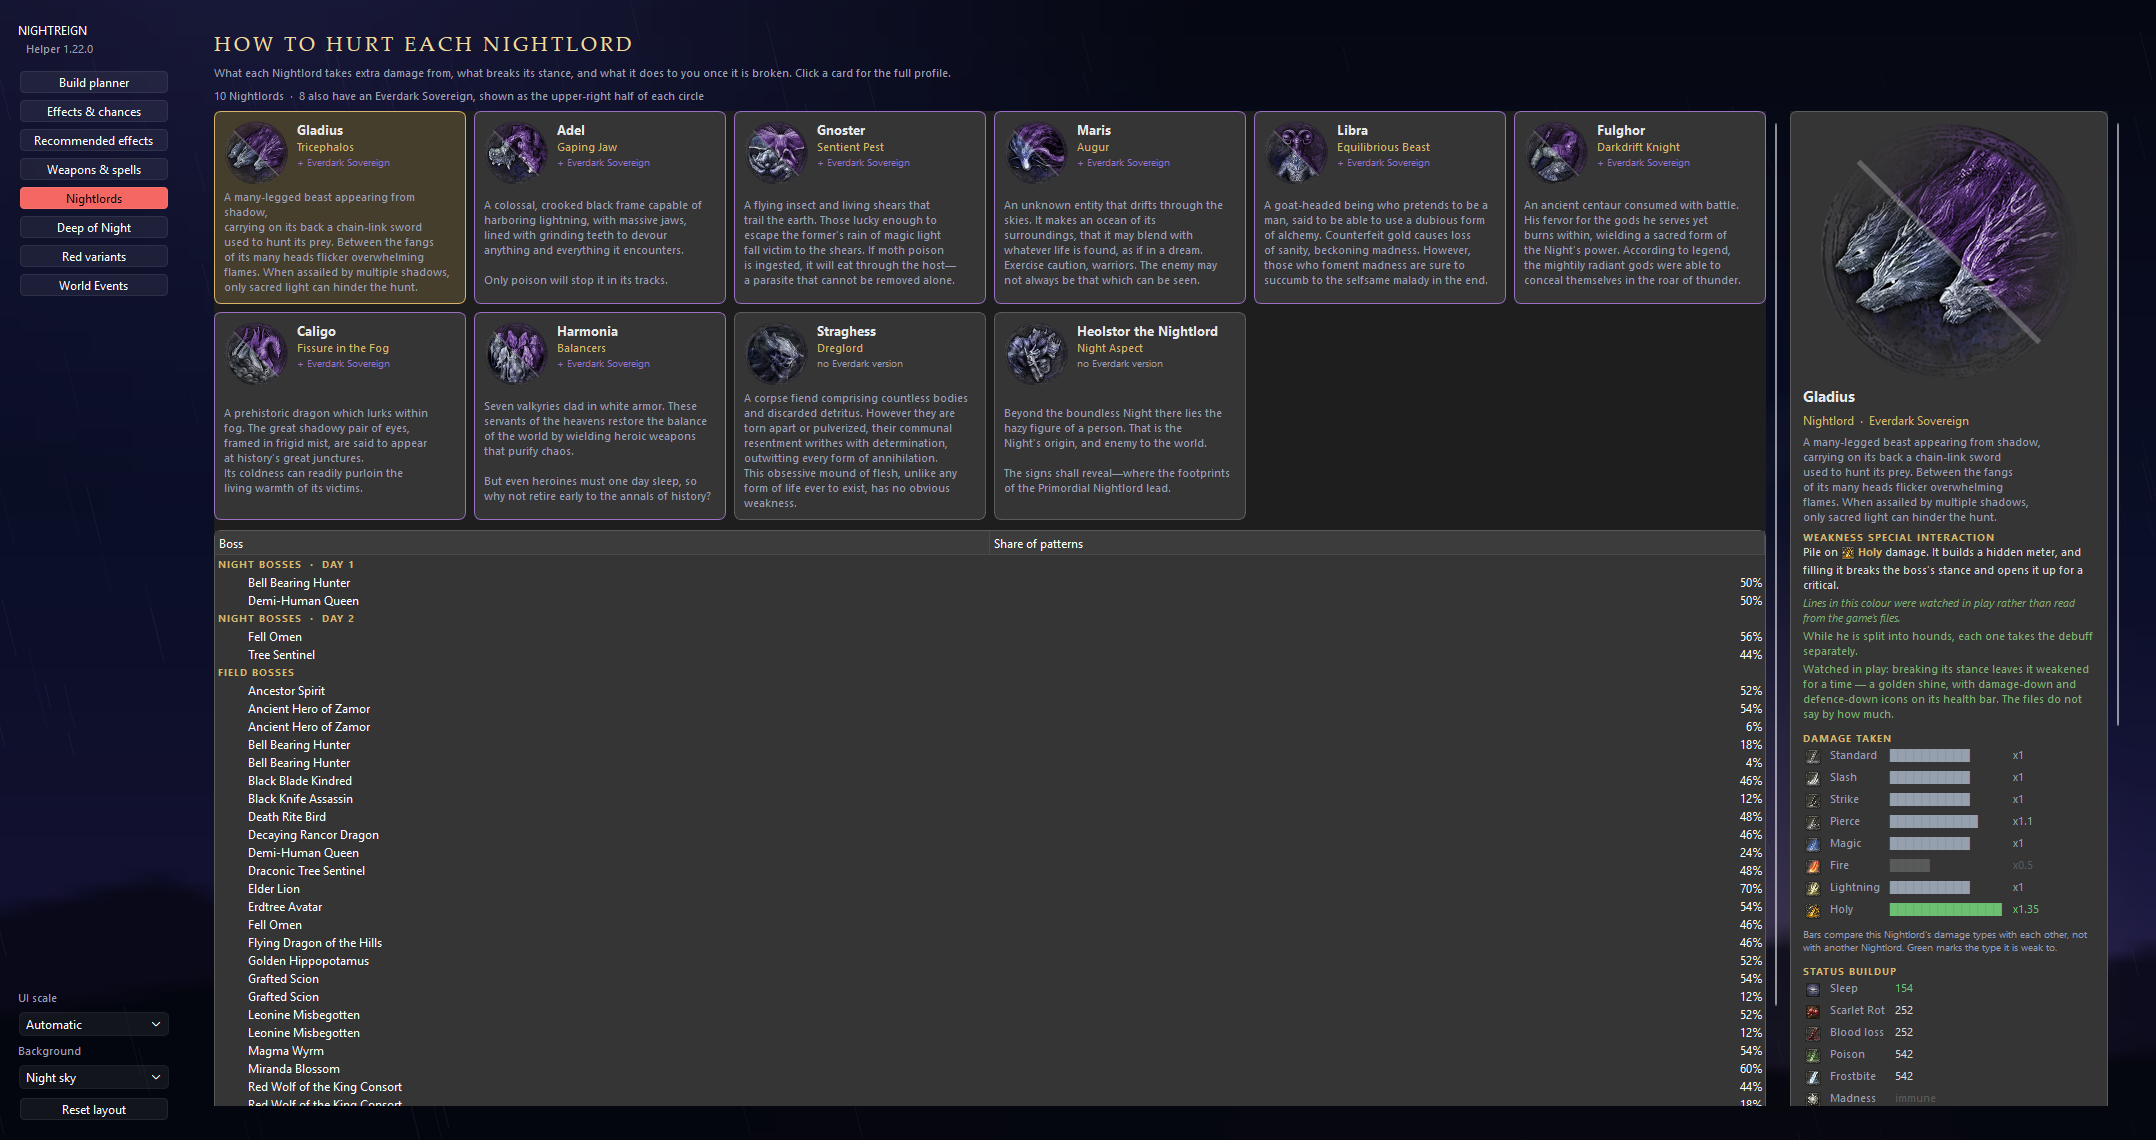
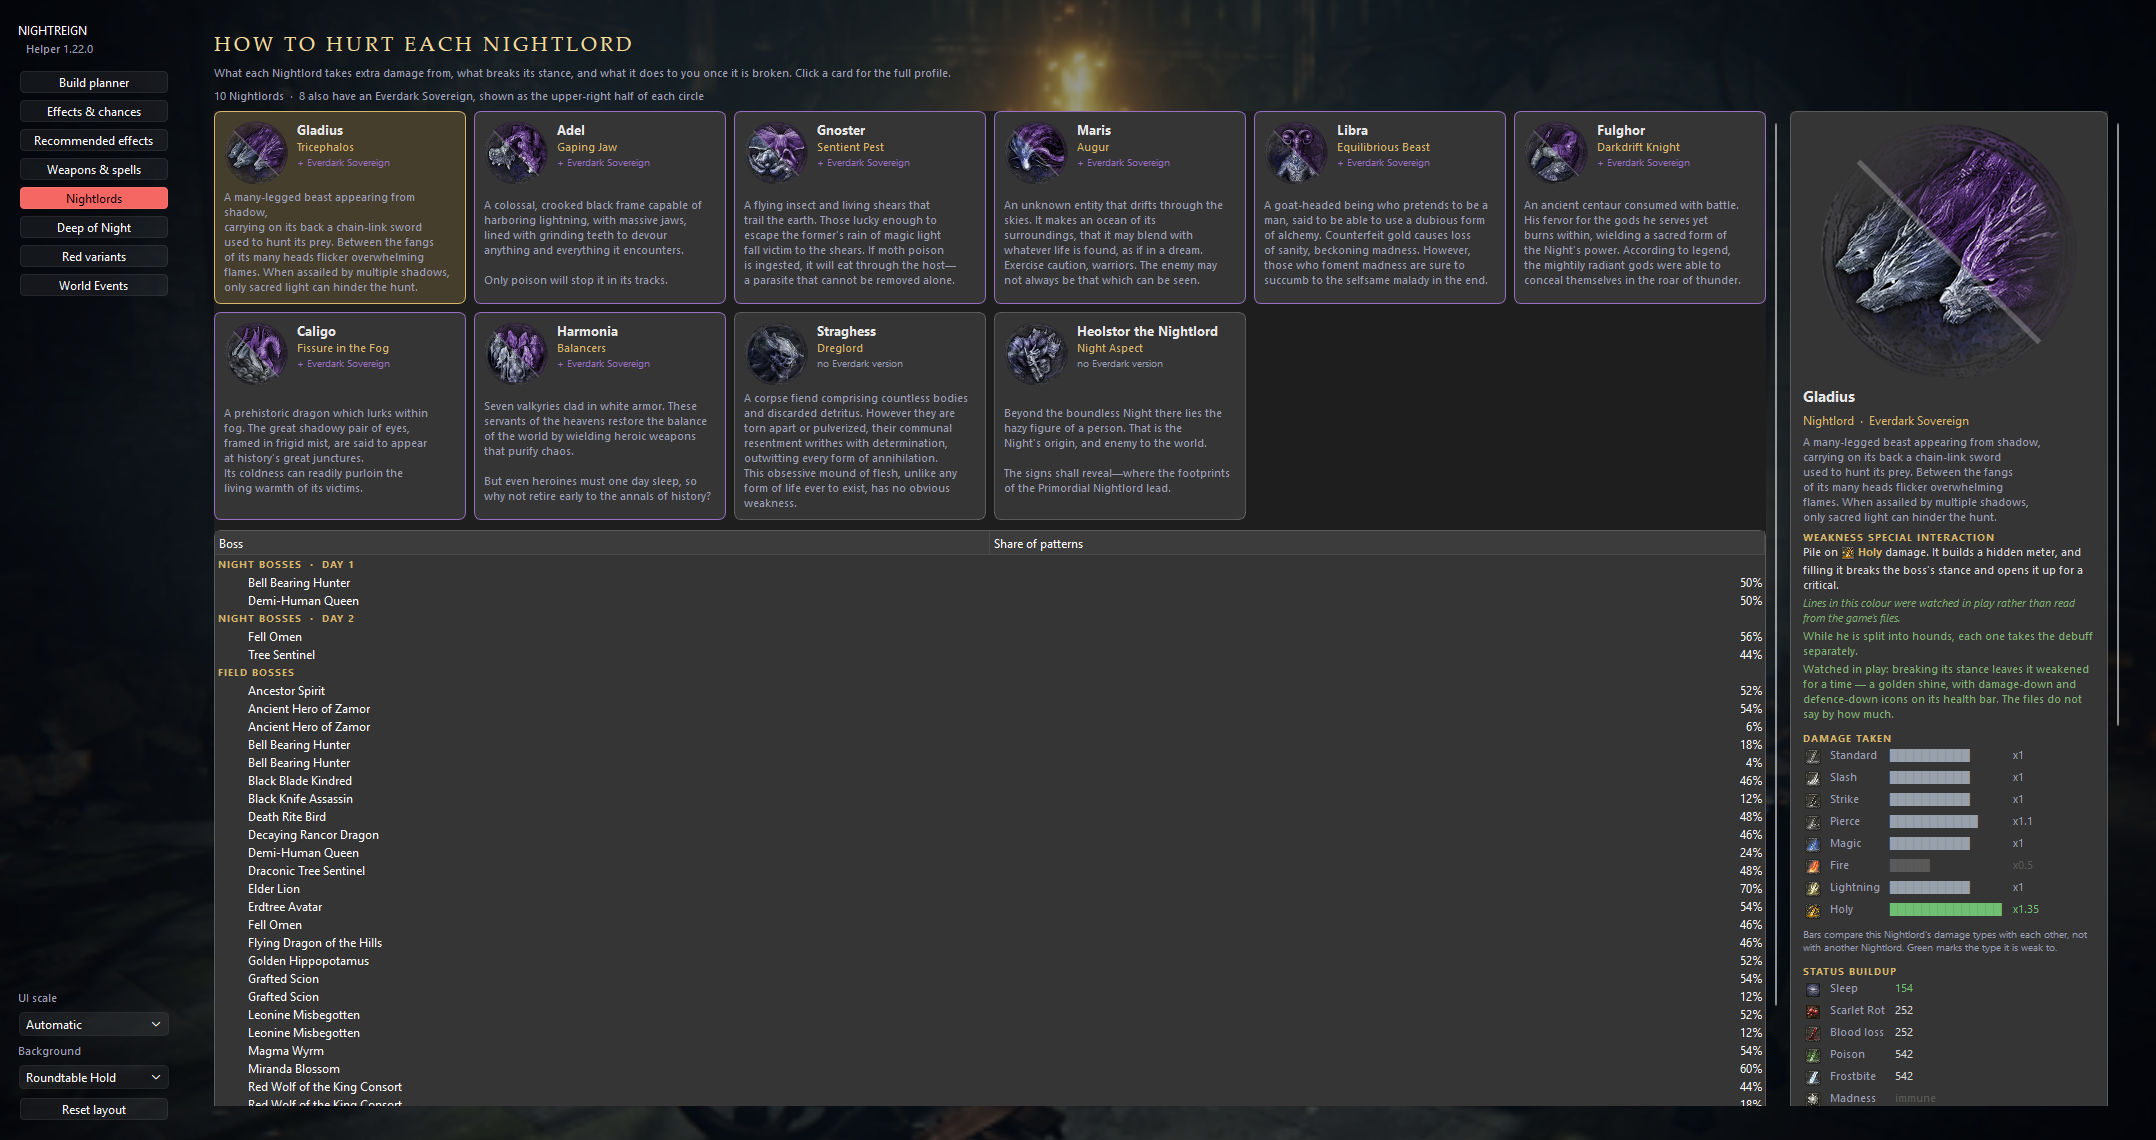
docs(screenshots,guide,readme): Bilder mit Hintergrund "Roundtable Hold"
- Nutzerentscheid 15.11.2026: die Bilder im Repo zeigen den Hintergrund,
  mit dem das Programm startet, statt des gemalten "Night sky". Das Bild
  stammt aus den Spieldateien der eigenen Installation; im Repo ist damit
  erstmals ein grosses Spielbild zu sehen (bisher nur Portraets und Symbole).
- make_screenshots.py: backdrop.DEFAULT statt PAINTED, Docstring nennt den
  Entscheid
- guide, README: Saetze zum Hintergrund der Bilder angepasst, Quellenzeile
  ueber den Bildern nennt das Hintergrundbild
- neun Bilder neu (conditions.png und filters.png zeigen keinen Hintergrund
  und sind unveraendert); geprueft: nightlords.png 11 Prosabloecke (S1),
  world_events.png zeigt Fell Omen (S2), 2156 x 1140 (S3)

diff --git a/scripts/make_screenshots.py b/scripts/make_screenshots.py
@@ -16,9 +16,12 @@ this machine actually holds. That is intended -- the README says as much -- and
 the one thing that must not appear, the Steam account id, is only ever in a
 tooltip, never on the face of the window.
 
-**The background is always the painted "Night sky".** The other choices of the
-Background list are pictures out of the game's own files, and this repository
-is public: the pictures here show the program, not the game's artwork. The
+**The background is always "Roundtable Hold", the one the program starts
+with.** It is a picture out of the game's own files, read from the install on
+this machine, and this repository is public; that it is shown here all the
+same is the owner's decision of 2026-11-15, taken knowing that. The guide
+names the game and its owners above the pictures. Where the install holds no
+such picture the painted "Night sky" stands in, as it does in the program. The
 choice, and the marks set for the Filters picture, go to a settings key of
 this script's own (`NIGHTREIGN_SETTINGS_ORG`, unless the caller set one), so
 the player's own background, builds and marks are neither read nor changed.
@@ -226,9 +229,9 @@ def main() -> None:
 
     app = QApplication(sys.argv)
     window = Planner(load_data())
-    window.backdrop.choose(backdrop.PAINTED)
+    window.backdrop.choose(backdrop.DEFAULT)
     window.backdrop_box.setCurrentIndex(
-        window.backdrop_box.findData(backdrop.PAINTED))
+        max(0, window.backdrop_box.findData(window.backdrop.choice)))
     off_screen(window)
     window.resize(WIDTH, HEIGHT)
     window.show()

diff --git a/docs/anleitung/guide.md b/docs/anleitung/guide.md
@@ -23,8 +23,8 @@
 ---
 
 
-*Every screenshot below is this tool's own interface, showing data read from
-a personal ELDEN RING NIGHTREIGN install. ELDEN RING NIGHTREIGN is the
+*Every screenshot below is this tool's own interface, showing data and the
+background picture read from a personal ELDEN RING NIGHTREIGN install. ELDEN RING NIGHTREIGN is the
 property of FromSoftware, Inc. and Bandai Namco Entertainment Inc.; see
 [Disclaimer](../../README.md#disclaimer).*
 
@@ -860,8 +860,8 @@ picture. A narrow window shortens the names in the list. Under the list sit
 **Background** chooses the picture behind the panels: Roundtable Hold by
 default, the Nightlords' expedition pictures and a few menu scenes, all read
 from your own game files, or **Night sky**, which the program paints itself.
-The screenshots in this guide show Night sky: the other pictures are the
-game's artwork, and they stay on your machine.
+The screenshots in this guide show Roundtable Hold. The download holds none
+of these pictures; the program reads them from your installation.
 
 **The three panels can be resized.** Drag the dividers between the Nightfarer
 sidebar, the relic slots and the stat sheet — useful in both directions, since
@@ -999,7 +999,7 @@ Close any running copy first, or Windows' file lock makes PyInstaller fail with
 Properties → Details reports the build without having to run it.
 
 To refresh the screenshots in this guide after a view changes (the script always
-uses the painted Night sky background and a settings key of its own, so your
+uses the Roundtable Hold background and a settings key of its own, so your
 own background, builds and marks are left alone):
 
 ```bat

diff --git a/README.md b/README.md
@@ -61,8 +61,8 @@ Bandai Namco Entertainment Inc. ELDEN RING NIGHTREIGN, its data, artwork,
 text and trademarks are the property of their respective owners. The
 released executable contains no game data; it reads your own installation.
 The pictures the program can show behind its window are read from that
-installation as well; the screenshots here use the background the program
-paints itself.
+installation as well; the screenshots here show one of them, Roundtable
+Hold, as read from a personal install.
 
 It reads and decrypts, locally, the game files and the save data of your
 installed copy of ELDEN RING NIGHTREIGN, using decryption keys that have
